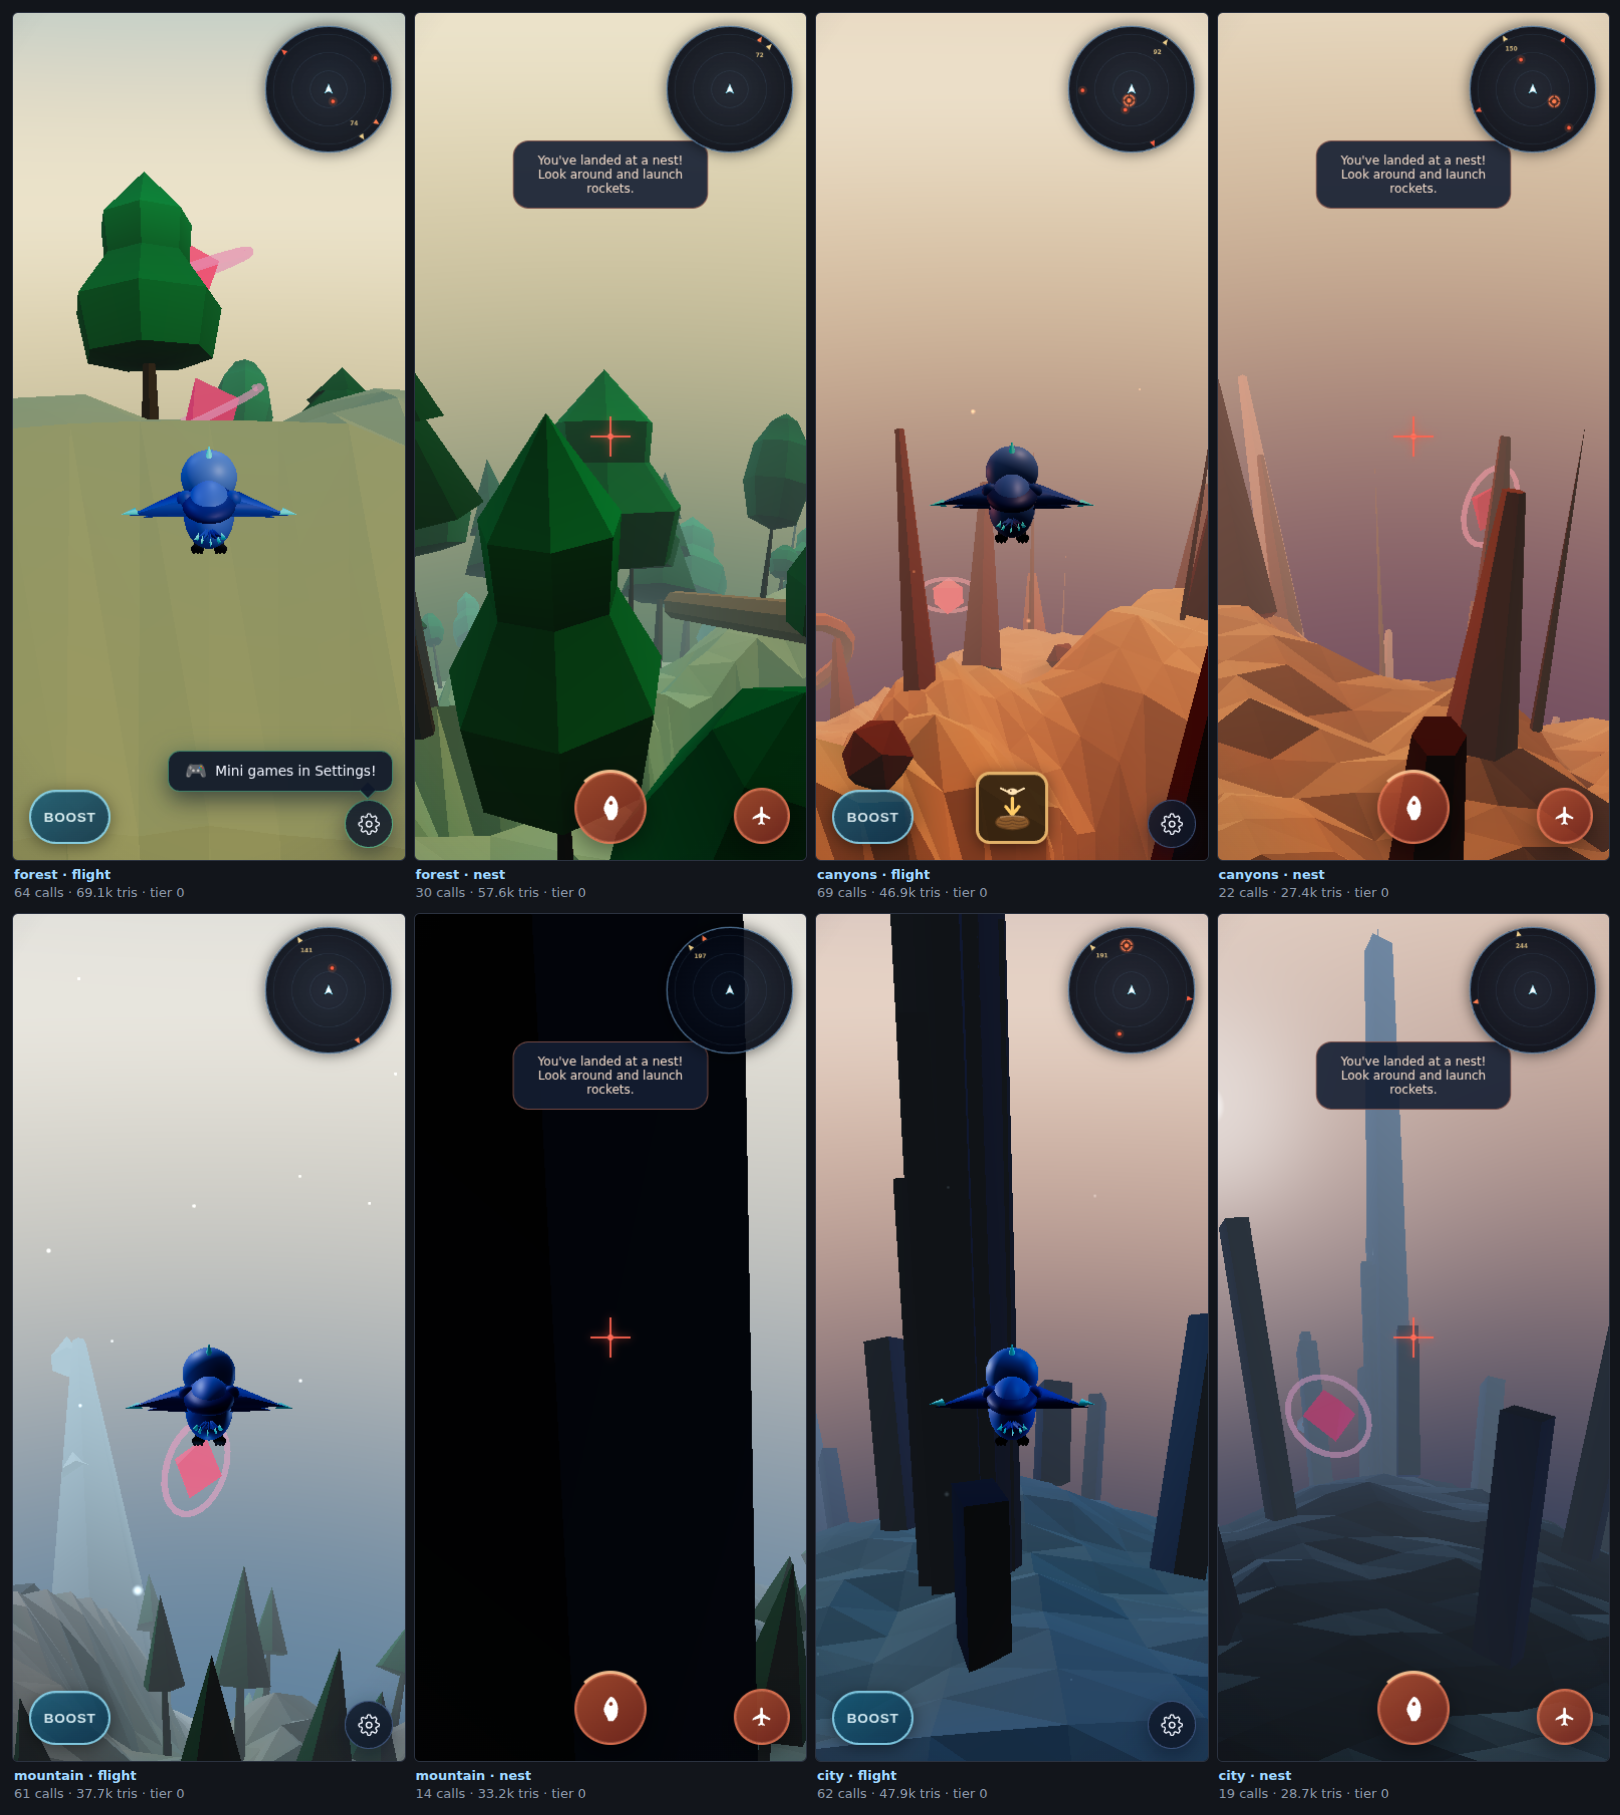
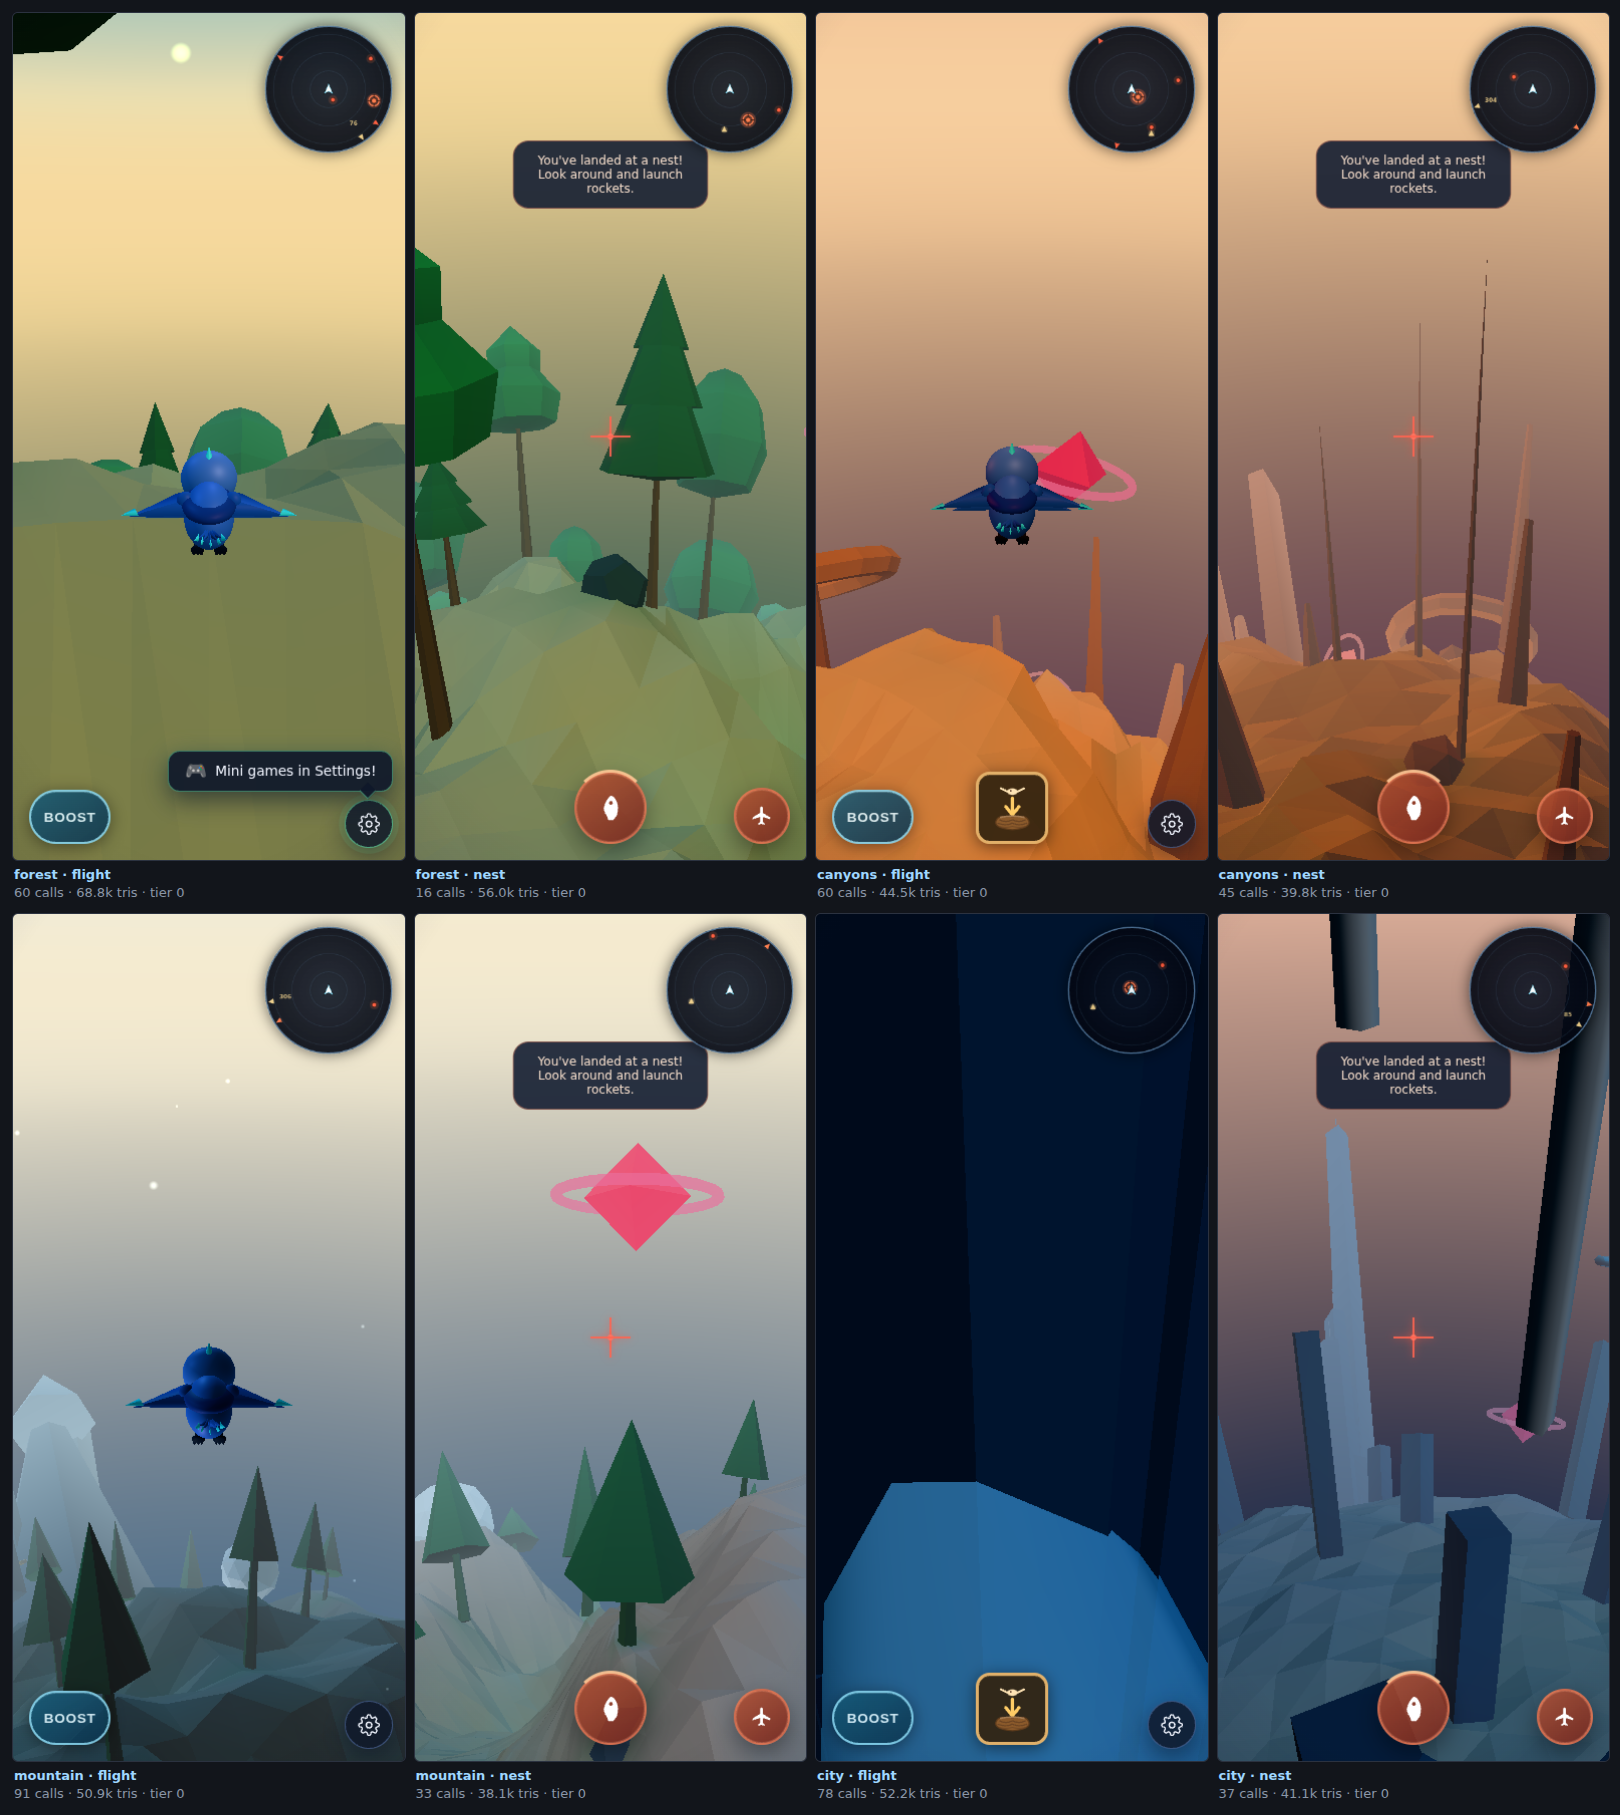
Switch tone mapping from ACES to Khronos Neutral
The single cheapest cinematic lever available: one enum, no per-frame
cost, no change to a light, a material or a vertex colour, and it
decides how the entire frame rolls off into highlight.

Measured side by side from one fixed camera with tools/birb-lighting.mjs
rather than chosen from a description. ACES desaturates as it rolls off,
and on a world built from flat-shaded colour that is most of what you
see: greens went grey-olive and the sky went to flat cream. Neutral
holds hue into the highlights, so the same scene reads as a gold sky
over saturated forest, a genuinely orange canyon, cool misty peaks and a
deep blue city with a warm horizon.

AgX was measured in the same pass and lands very close to ACES here. It
earns its keep on scenes with blown highlights and this one has none, so
it is not worth the change.

That comparison very nearly reported a false result. The baseline
snapshot reads renderer.toneMapping back as a NUMBER while the setter
only accepted strings, so restoring the baseline silently did nothing
and every tile after the first inherited the previous tile's tone
mapping — making three unrelated variants look like improvements. The
setter takes both now. A comparison sheet that leaks state between tiles
reports differences that are not there, which is worse than no sheet.

Claude-Session: https://claude.ai/code/session_015qCAkGctP5i57jyzA2Wfrc

diff --git a/index.html b/index.html
@@ -4195,7 +4195,18 @@
 
     renderer.outputColorSpace = THREE.SRGBColorSpace;
     // One art pipeline: highlights roll off consistently on phones and desktop.
-    renderer.toneMapping = THREE.ACESFilmicToneMapping;
+    // Khronos Neutral, not ACES. Measured side by side from one fixed camera
+    // (tools/birb-lighting.mjs): ACES desaturates as it rolls off, and on a
+    // world made of flat-shaded colour that is most of what you see — greens
+    // go grey-olive and the sky goes to cream. Neutral holds hue into the
+    // highlights, so the same scene reads as gold sky over saturated forest
+    // with no change to a single light, material or vertex colour.
+    //
+    // AgX was measured too and lands very close to ACES here: it earns its
+    // keep on scenes with blown highlights, and this one has none.
+    //
+    // One enum. Zero per-frame cost.
+    renderer.toneMapping = THREE.NeutralToneMapping;
     renderer.toneMappingExposure = 1.12;
 
     const scene = new THREE.Scene();
@@ -8676,8 +8687,36 @@
         // asks for palette tuning on physical phones against FIXED views; this
         // is how those views get generated from one world build, so the only
         // difference between two frames is the setting under test.
-        setLighting: ({ exposure, ambient: amb, key, rim, fill, fog } = {}) => {
+        setLighting: ({ exposure, ambient: amb, key, rim, fill, fog, tone } = {}) => {
           if (Number.isFinite(exposure)) renderer.toneMappingExposure = exposure;
+          if (tone !== undefined) {
+            const map = {
+              aces: THREE.ACESFilmicToneMapping,
+              agx: THREE.AgXToneMapping,
+              neutral: THREE.NeutralToneMapping,
+              reinhard: THREE.ReinhardToneMapping,
+              cineon: THREE.CineonToneMapping,
+              linear: THREE.LinearToneMapping,
+            };
+            // Accept the numeric constant too. The baseline snapshot reads
+            // renderer.toneMapping back as a NUMBER, and a string-only setter
+            // silently ignored it — so the comparison tool never restored the
+            // baseline and every variant after the first inherited the
+            // previous one's tone mapping. A sheet that leaks state between
+            // tiles reports differences that are not there.
+            const resolved = typeof tone === 'number' ? tone : map[tone];
+            if (resolved !== undefined) {
+              renderer.toneMapping = resolved;
+              // Every material's program embeds the tone-mapping function, so
+              // switching it needs a recompile or the change does nothing.
+              scene.traverse((o) => {
+                if (o.material) {
+                  const list = Array.isArray(o.material) ? o.material : [o.material];
+                  for (const m of list) m.needsUpdate = true;
+                }
+              });
+            }
+          }
           if (Number.isFinite(amb)) lightingRig.ambient.intensity = amb;
           if (Number.isFinite(key)) lightingRig.keyLight.intensity = key;
           if (Number.isFinite(rim)) lightingRig.rimLight.intensity = rim;
@@ -8690,6 +8729,7 @@
             rim: lightingRig.rimLight.intensity,
             fill: lightingRig.fillLight.intensity,
             fog: scene.fog ? scene.fog.density : null,
+            tone: renderer.toneMapping,
           };
         },
         pinTier: (tier = 0) => { adaptiveTier.pin(tier); return adaptiveTier.getTier(); },

diff --git a/sw.js b/sw.js
@@ -5,7 +5,7 @@
 
 // Bumped for the /grokrogue bypass below: the version change evicts CORE_CACHE
 // on activate so the new sibling route cannot inherit stale shell handling.
-const CACHE_VERSION = 'v27-2026-09-06-findable-landmarks';
+const CACHE_VERSION = 'v28-2026-09-06-neutral-tonemap';
 
 /**
  * Paths owned by other Birb Labs artefacts. This worker must not touch them.
